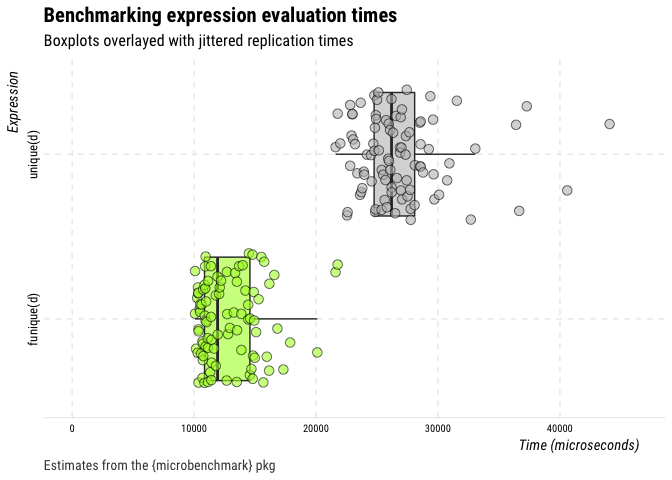
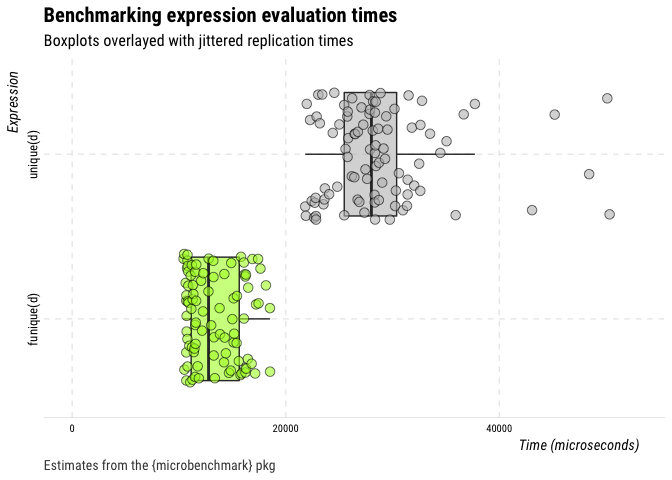
speed improvements

diff --git a/README.md b/README.md
@@ -1,11 +1,12 @@
 
 <!-- README.md is generated from README.Rmd. Please edit that file -->
-
-# funique
+funique
+=======
 
 ⌚ A faster `unique()` function
 
-## Installation
+Installation
+------------
 
 You can install the released version of funique from Github with:
 
@@ -14,15 +15,15 @@ You can install the released version of funique from Github with:
 devtools::install_github("mkearney/funique")
 ```
 
-## Usage
+Usage
+-----
 
-There’s one function `funique()`, which is the same as `base::unique()`
-only optimized to be faster when data contain date-time variables.
+There's one function `funique()`, which is the same as `base::unique()` only optimized to be faster when data contain date-time variables.
 
-## Speed test: `funique()` vs. `base::unique()`
+Speed test: `funique()` vs. `base::unique()`
+--------------------------------------------
 
-The code below creates a data frame with several duplicate rows and then
-compares performance (in time) of `funique()` versus `base::unique()`.
+The code below creates a data frame with several duplicate rows and then compares performance (in time) of `funique()` versus `base::unique()`.
 
 ``` r
 ## create data set with a date-time column
@@ -48,17 +49,16 @@ plot(mb)
 ```
 
 <p align="center">
-
 <img src="man/figures/r1.png">
 
-Here’s another test this time using duplicate-infested Twitter data.
+Here's another test this time using duplicate-infested Twitter data.
 
 ``` r
-## search for data on 1,000 tweets
-rt <- rtweet::search_tweets("lang:en", n = 500, verbose = FALSE)
+## search for data on 100 tweets
+rt <- rtweet::search_tweets("lang:en", verbose = FALSE)
 
 ## create duplicates
-rt2 <- rbind(rt, rt[sample(1:nrow(rt), 100), ])
+rt2 <- rt[sample(1:nrow(rt), 1000, replace = TRUE), ]
 
 ## benchmarks
 (mb <- microbenchmark(unique(rt2), funique(rt2), unit = "relative"))
@@ -71,5 +71,4 @@ plot(mb)
 ```
 
 <p align="center">
-
 <img src="man/figures/r2.png">
